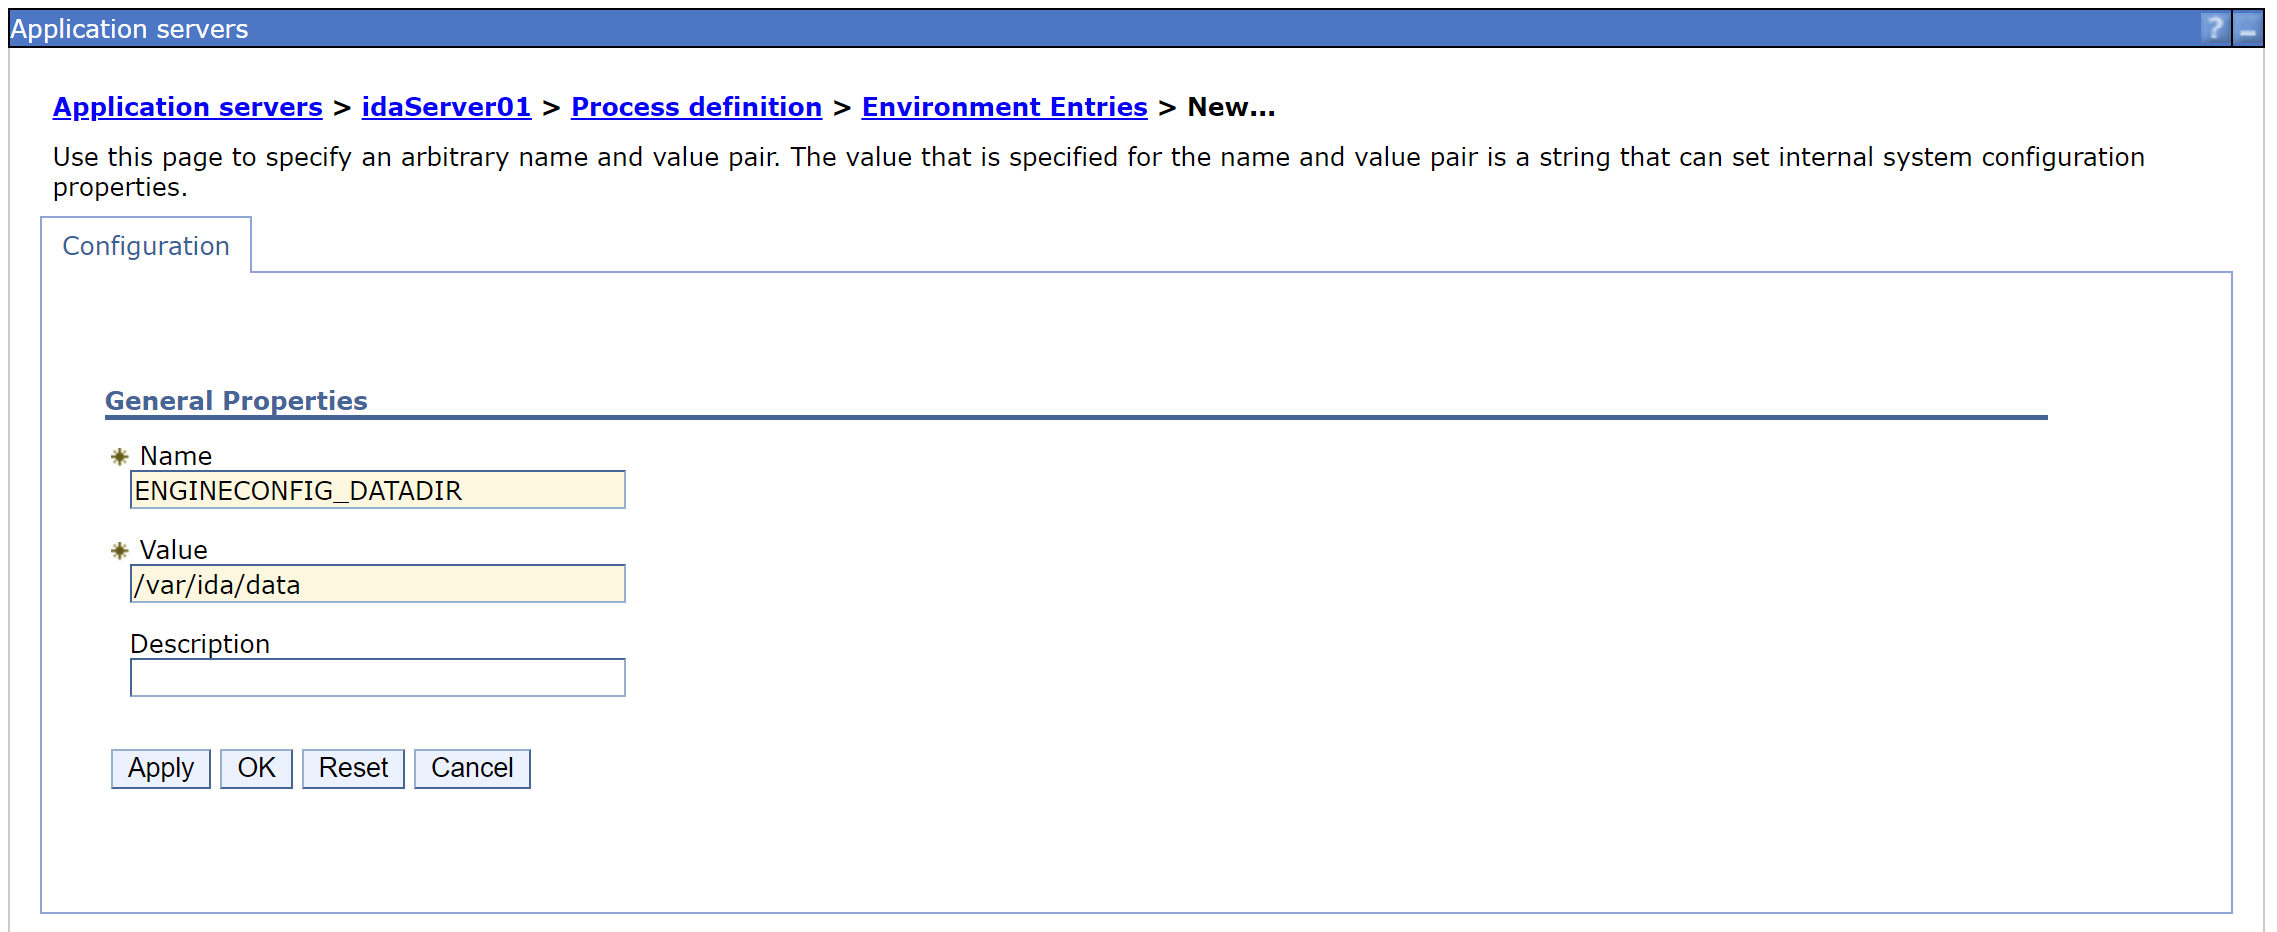
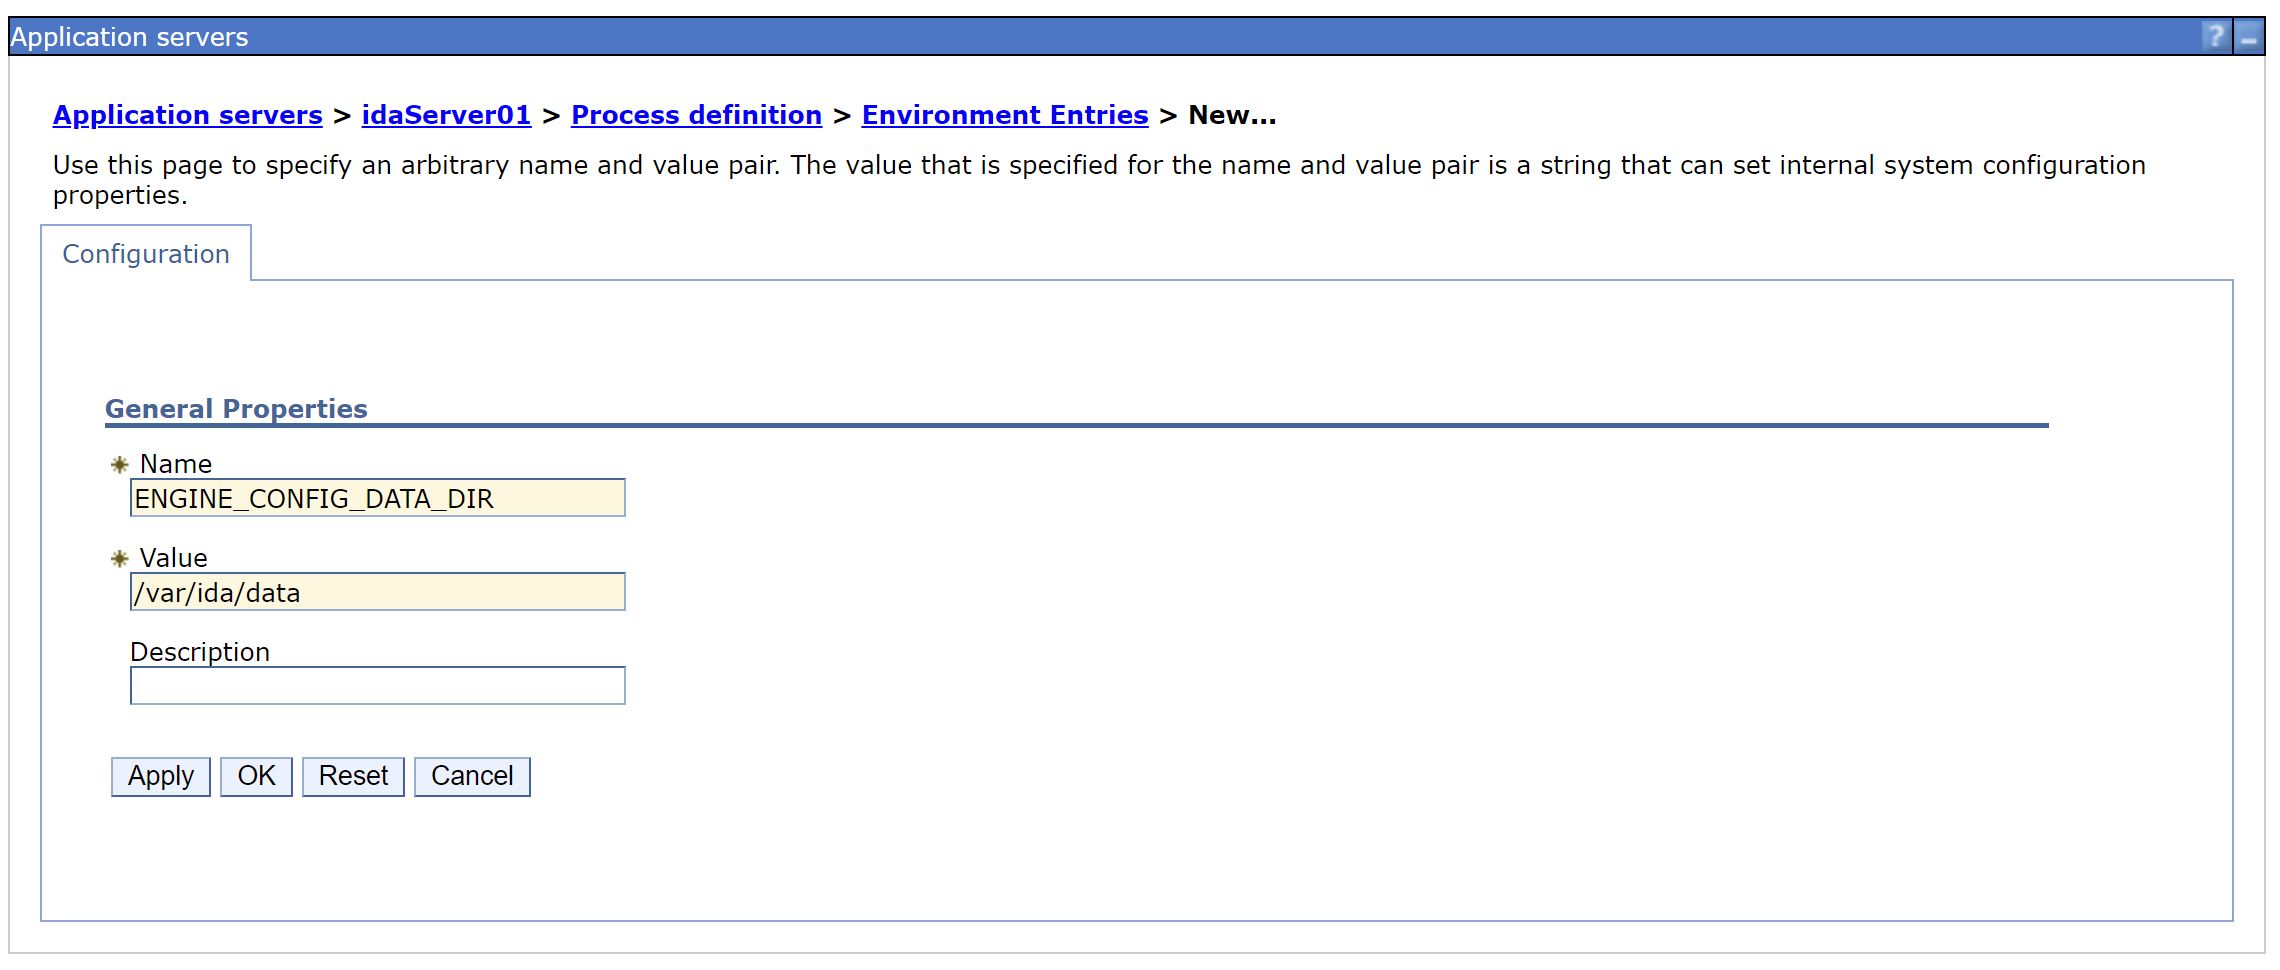
updated was installation doc.

diff --git a/_posts/2018-01-07-installation-installing-ida-application.md b/_posts/2018-01-07-installation-installing-ida-application.md
@@ -226,7 +226,7 @@ In addition, you could customize the Liberty environment for IDA as *optional st
 
   ```
   # IDA working directory data path
-  ENGINECONFIG_DATADIR=/var/ida/data
+  ENGINE_CONFIG_DATA_DIR=/var/ida/data
   ```
 
 * Customize JVM options by using *jvm.options* files.
@@ -304,7 +304,7 @@ IDA uses Spring Boot websocket feature, which is not supported by WebSphere v8.5
 
     ```
     # IDA working directory data path
-    ENGINECONFIG_DATADIR=/var/ida/data
+    ENGINE_CONFIG_DATA_DIR=/var/ida/data
     ```
   ![][wasenv2]
 
